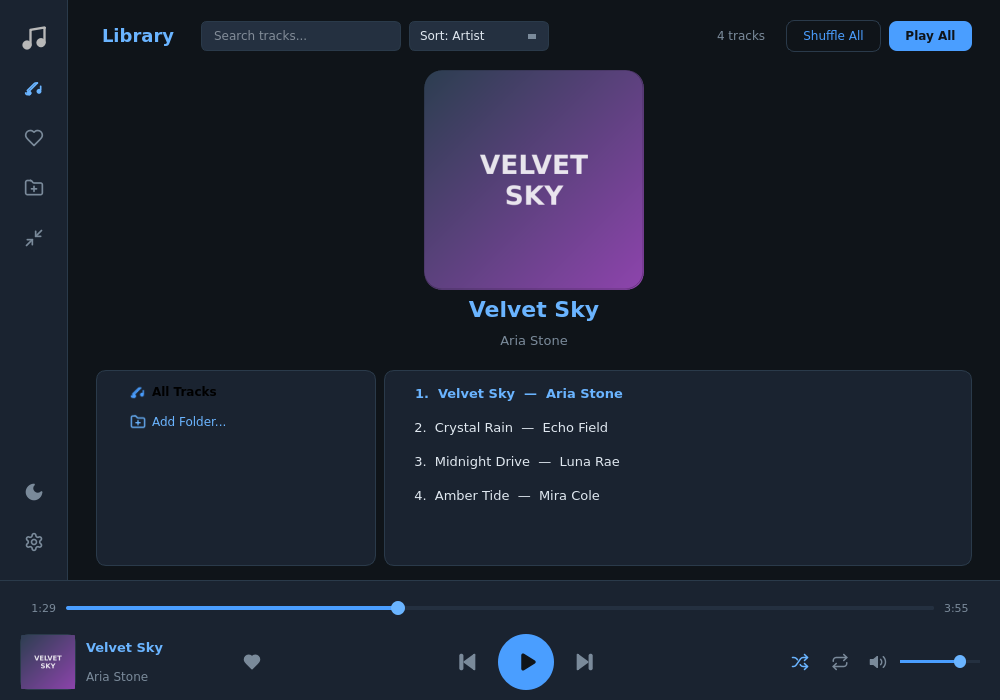
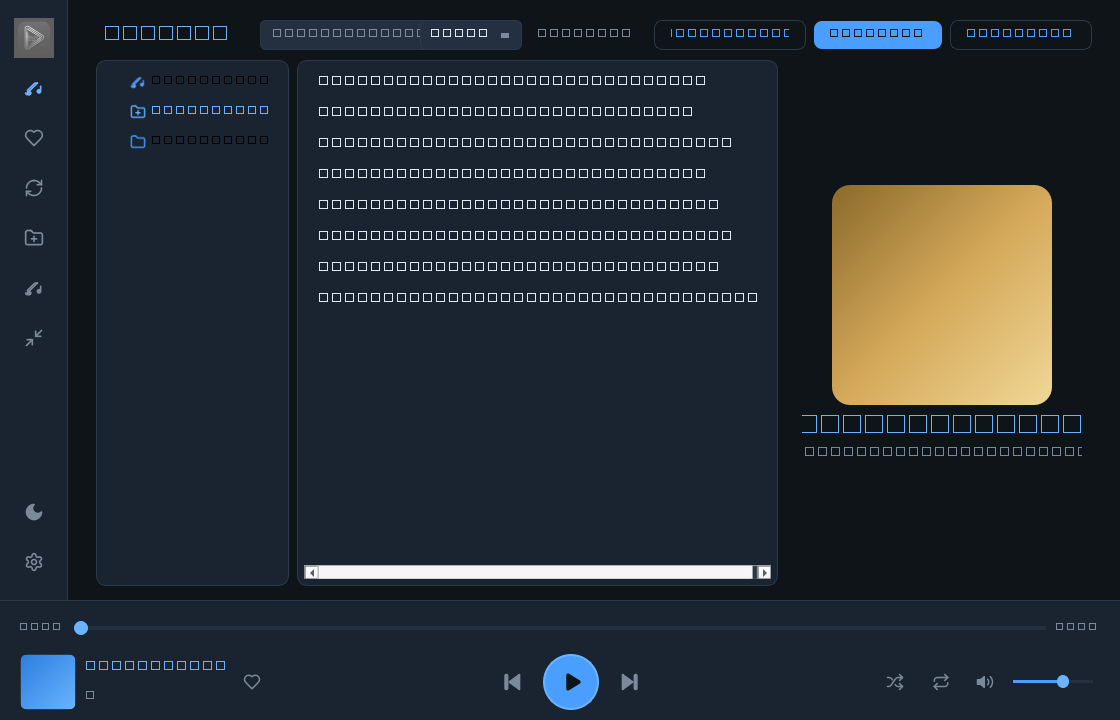
Refresh README screenshots from live v1.1.0 app
Captured with scripts/make_screenshots.py (offscreen Qt): the four
README themes at 1120x720 with a seeded demo library so the track
list, player bar and cover art reflect the current UI.

diff --git a/scripts/make_screenshots.py b/scripts/make_screenshots.py
@@ -1,0 +1,77 @@
+"""Regenerate README screenshots from the live app (offscreen Qt).
+
+Captures the four themes referenced in README.md at a realistic window
+size, with the demo library loaded so lists/cover art look real.
+"""
+import os
+import sys
+import json
+from pathlib import Path
+
+os.environ["QT_QPA_PLATFORM"] = "offscreen"
+sys.path.insert(0, str(Path(__file__).resolve().parent.parent))
+
+from PyQt6.QtWidgets import QApplication
+from PyQt6.QtCore import QTimer
+
+app = QApplication(sys.argv)
+import coverart
+from main import MainWindow
+
+SHOTS = Path(__file__).resolve().parent.parent / "screenshots"
+SHOTS.mkdir(exist_ok=True)
+
+# theme name -> output file (the four used in README.md)
+CAPTURES = [
+    ("aurora", "aurora.png"),
+    ("dark", "dark_gold.png"),
+    ("midnight", "midnight.png"),
+    ("ocean", "ocean.png"),
+]
+
+w = MainWindow()
+w.resize(1120, 720)
+w.show()
+
+# Fake audio backend state so the player bar looks "live"
+w.audio.load = lambda p: None
+w.audio.load_and_play = lambda p: None
+
+
+def render(widget) -> bytes:
+    widget.repaint()
+    pm = widget.grab()
+    return bytes(pm.save(str(pm.cacheKey()), "PNG")) and b"" or pm.toImage().bitPlaneCount() and b""  # noqa
+
+
+def capture(idx):
+    if idx >= len(CAPTURES):
+        app.quit()
+        return
+    theme_name, fname = CAPTURES[idx]
+    w._on_theme_selected(theme_name)
+    w.current_view = __import__("main").View.LIBRARY
+    w.stack.setCurrentIndex(0)
+    w.page_title.setText("Library")
+
+    def snap():
+        w.repaint()
+        app.processEvents()
+        pix = w.grab()
+        out = SHOTS / fname
+        pix.save(str(out), "PNG")
+        print(f"saved {out.name} ({pix.width()}x{pix.height()})")
+        QTimer.singleShot(250, lambda: capture(idx + 1))
+
+    # let tag loader populate the list first
+    QTimer.singleShot(700, snap)
+
+
+def start():
+    # wait for async config load to finish building the list
+    QTimer.singleShot(1500, lambda: capture(0))
+
+
+QTimer.singleShot(200, start)
+app.exec()
+print("done")
